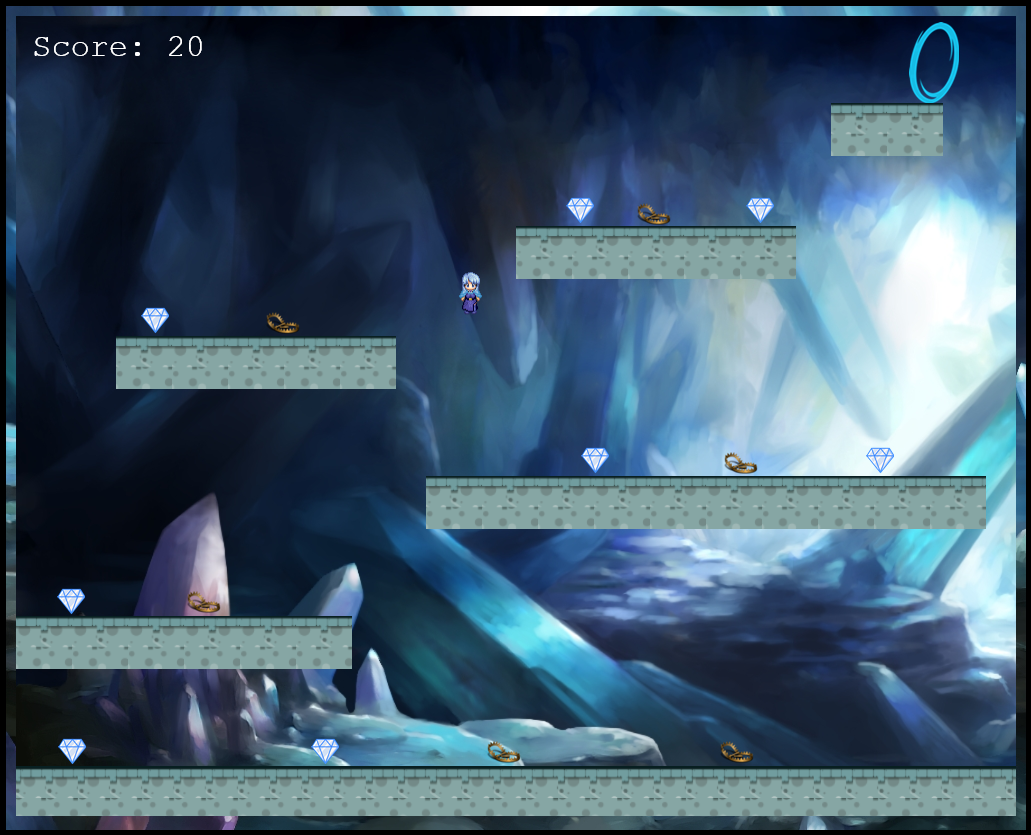
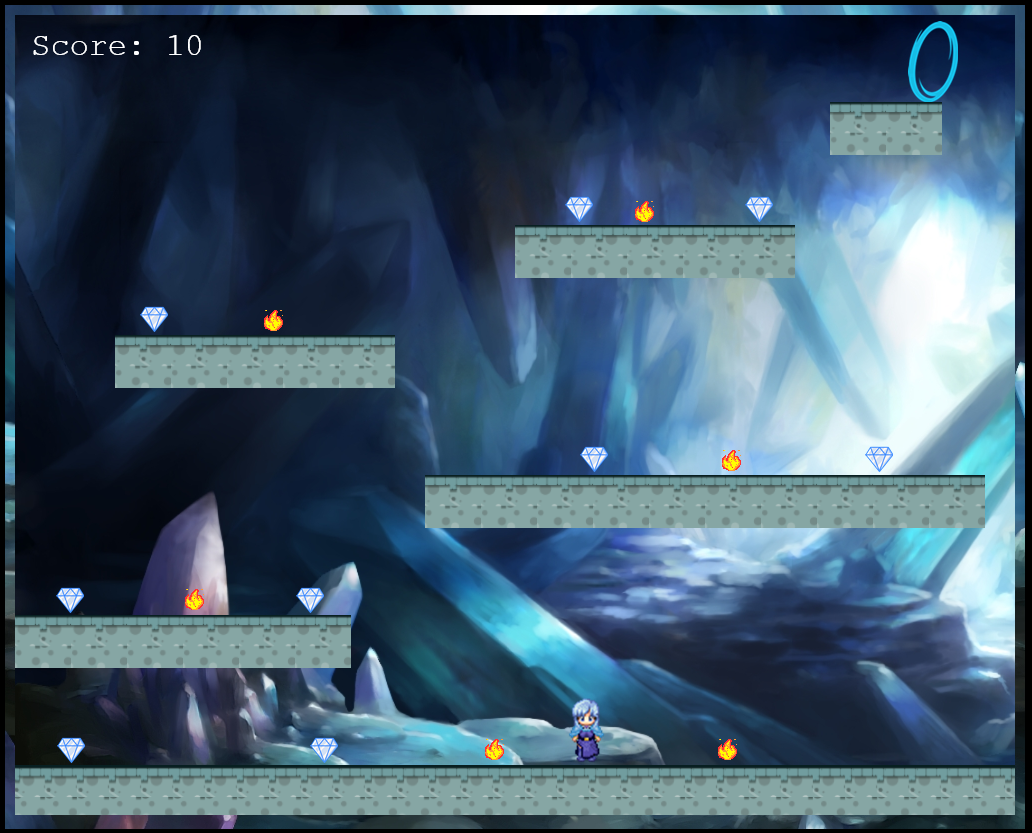
update

diff --git a/index.html b/index.html
@@ -17,6 +17,8 @@
   Pic[0] = "js/slides/slide1.png";
   Pic[1] = "js/slides/slide2.png";
   Pic[2] = "js/slides/slide3.png";
+  Pic[3] = "js/slides/slide4.png";
+  Pic[4] = "js/slides/slide5.png";
 
 
   let t;
@@ -60,11 +62,17 @@ runSlideShow();
 </div>
 
 <div id="column_4">
-  <p>Lorem ipsum dolor sit amet, consectetur adipiscing elit, sed do eiusmod tempor incididunt ut labore et dolore magna aliqua. Ut enim ad minim veniam, quis nostrud exercitation ullamco laboris nisi ut aliquip ex ea commodo consequat. Duis aute irure dolor in reprehenderit in voluptate velit esse cillum dolore eu fugiat nulla pariatur. Excepteur sint occaecat cupidatat non proident, sunt in culpa qui officia deserunt mollit anim id est laborum.</p>
+  <p>Shrivera Dragho, one of the most powerfull witches in Maraug, will need your help to save the Red Dragon. She is now face to face with the challange of her life. In order for her dragon to live she has to collect as many diamonds as possible from the Diamond Cave and to reach the treasure where the Life Potion was hidden. The witch spent long time in finding the cave and her beloved dragon doesn't have much time. So gather your stregth and help her complete her mission! </p>
+  <p>Use the button below to create an account or to sign in if you already have one and begin your journey now.</p>
+  <br>
+  <hr><hr>
+  <br>
+  <button type="button" id="form_btn">You can create an Account or Sign In here</button>
 </div>
 </div>
-<hr><hr>
-<button type="button" id="form_btn">You can create an Account or Sign In here</button>
+
+
+<div id="slider">
 
 <div class="grid-container">
   <div id="column_1">
@@ -112,5 +120,9 @@ runSlideShow();
   </form>
   </div>
 </div>
+</div>
+<footer id = "up">
+  <hr id="line">
+</footer>
 </body>
 </html>

diff --git a/game.html b/game.html
@@ -24,7 +24,7 @@
   <div id="wrap">
   <div id="regbar">
     <div id="navthing">
-      <h2><a href="#" id="loginform">Login</a> | <a href="index.html">Register</a></h2>
+      <h2><a href="#" id="loginform">Sign In</a> | <a href="index.html">Register</a></h2>
     <div class="login">
       <div class="arrow-up"></div>
       <div class="formholder">
@@ -54,7 +54,7 @@
 <div class="legend">
   <h3>Legend</h3>
   <p>Try to collect as many diamonds as you can without stepping into the traps or touching the balls .</p>
-  <p>Do your best and help the little witch to save the magic cave!</p>
+  <p>Do your best and help the little witch to save her dragon!</p>
   <p>Use the left and right arrow keys to move the player around and the up arrow key or the space key to jump. </p>
 
 </div>

diff --git a/css/register.css b/css/register.css
@@ -164,9 +164,6 @@ button{
   background-color: red;
 }
 
-#faded_text{
-
-}
 span{
   font-family:sans-serif;
   color: 	#c1e4f4;
@@ -178,14 +175,26 @@ img{
   width: 600px;
 }
 
-#copy {
-  border-top:20px solid #b6d3fc;
-  padding:5px 30px 20px 0;
-  color:#b6d3fc;
-  text-align:right;
-  font-size:0.8em;
+
+#form_btn{
+  margin-top: 20px;
+  width: 300px;
+  height: 100px;
+  box-sizing: border-box;
+  background-color:	#001529;
+  color: #c1e4f4;
+  border-radius: 10px;
+  box-shadow: 0 0 8px 	#001529;
+  text-transform: uppercase;
+  font-size: 1.1rem;
+  text-align: center;
+  justify-content: center;
 }
-#copy a {
-  color:#b6d3fc;
-  text-decoration:none;
+#slider{
+  display: none;
+}
+
+#line{
+ border-top:20px solid  #c1e4f4;
+
 }

diff --git a/js/register.js b/js/register.js
@@ -1,4 +1,19 @@
 $(document).ready(function() {
+  $('#form_btn').on('click', function() {
+    $('#slider').fadeIn('slow');
+    if (this.hash !== "") {
+     event.preventDefault();
+
+     var hash = this.hash;
+
+     $('html, body').animate({
+       scrollTop: $('#up').offset().top
+     }, 800, function(){
+
+       window.location.hash = hash;
+     });
+   }
+});
 
   $('#btn_1').on('click', function() {
     $('#faded_text').fadeIn('slow');
@@ -66,6 +81,7 @@ $(document).ready(function() {
       error_email = true;
     }
   }
+
   $("#form").submit(function() {
     error_name = false;
     error_email = false;
